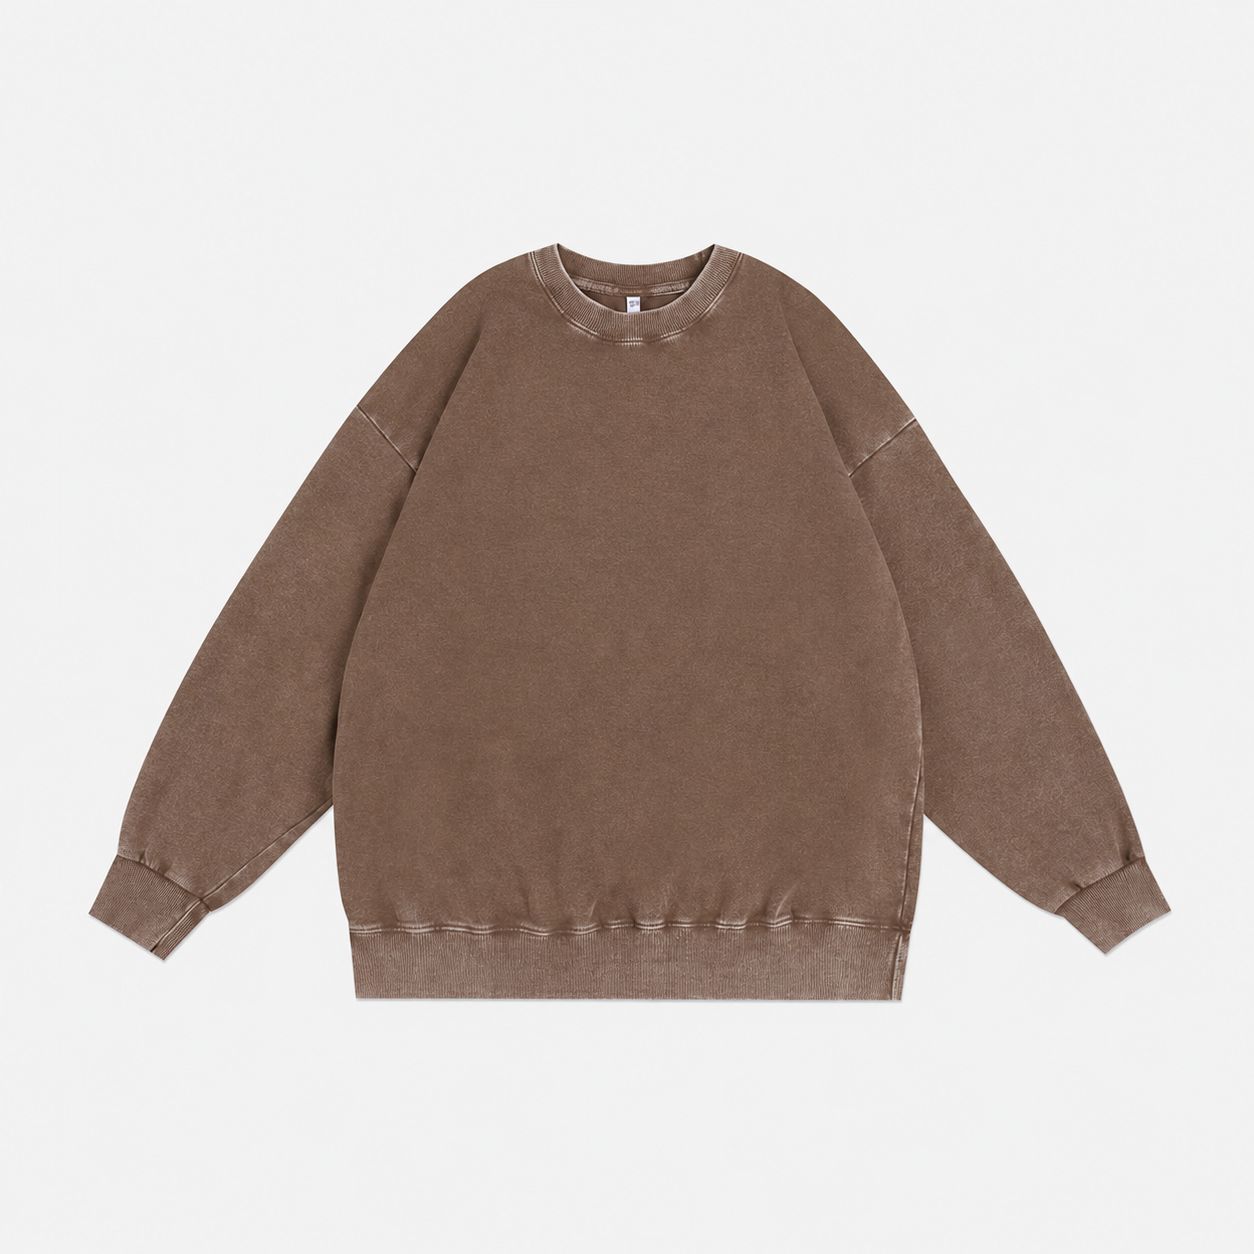
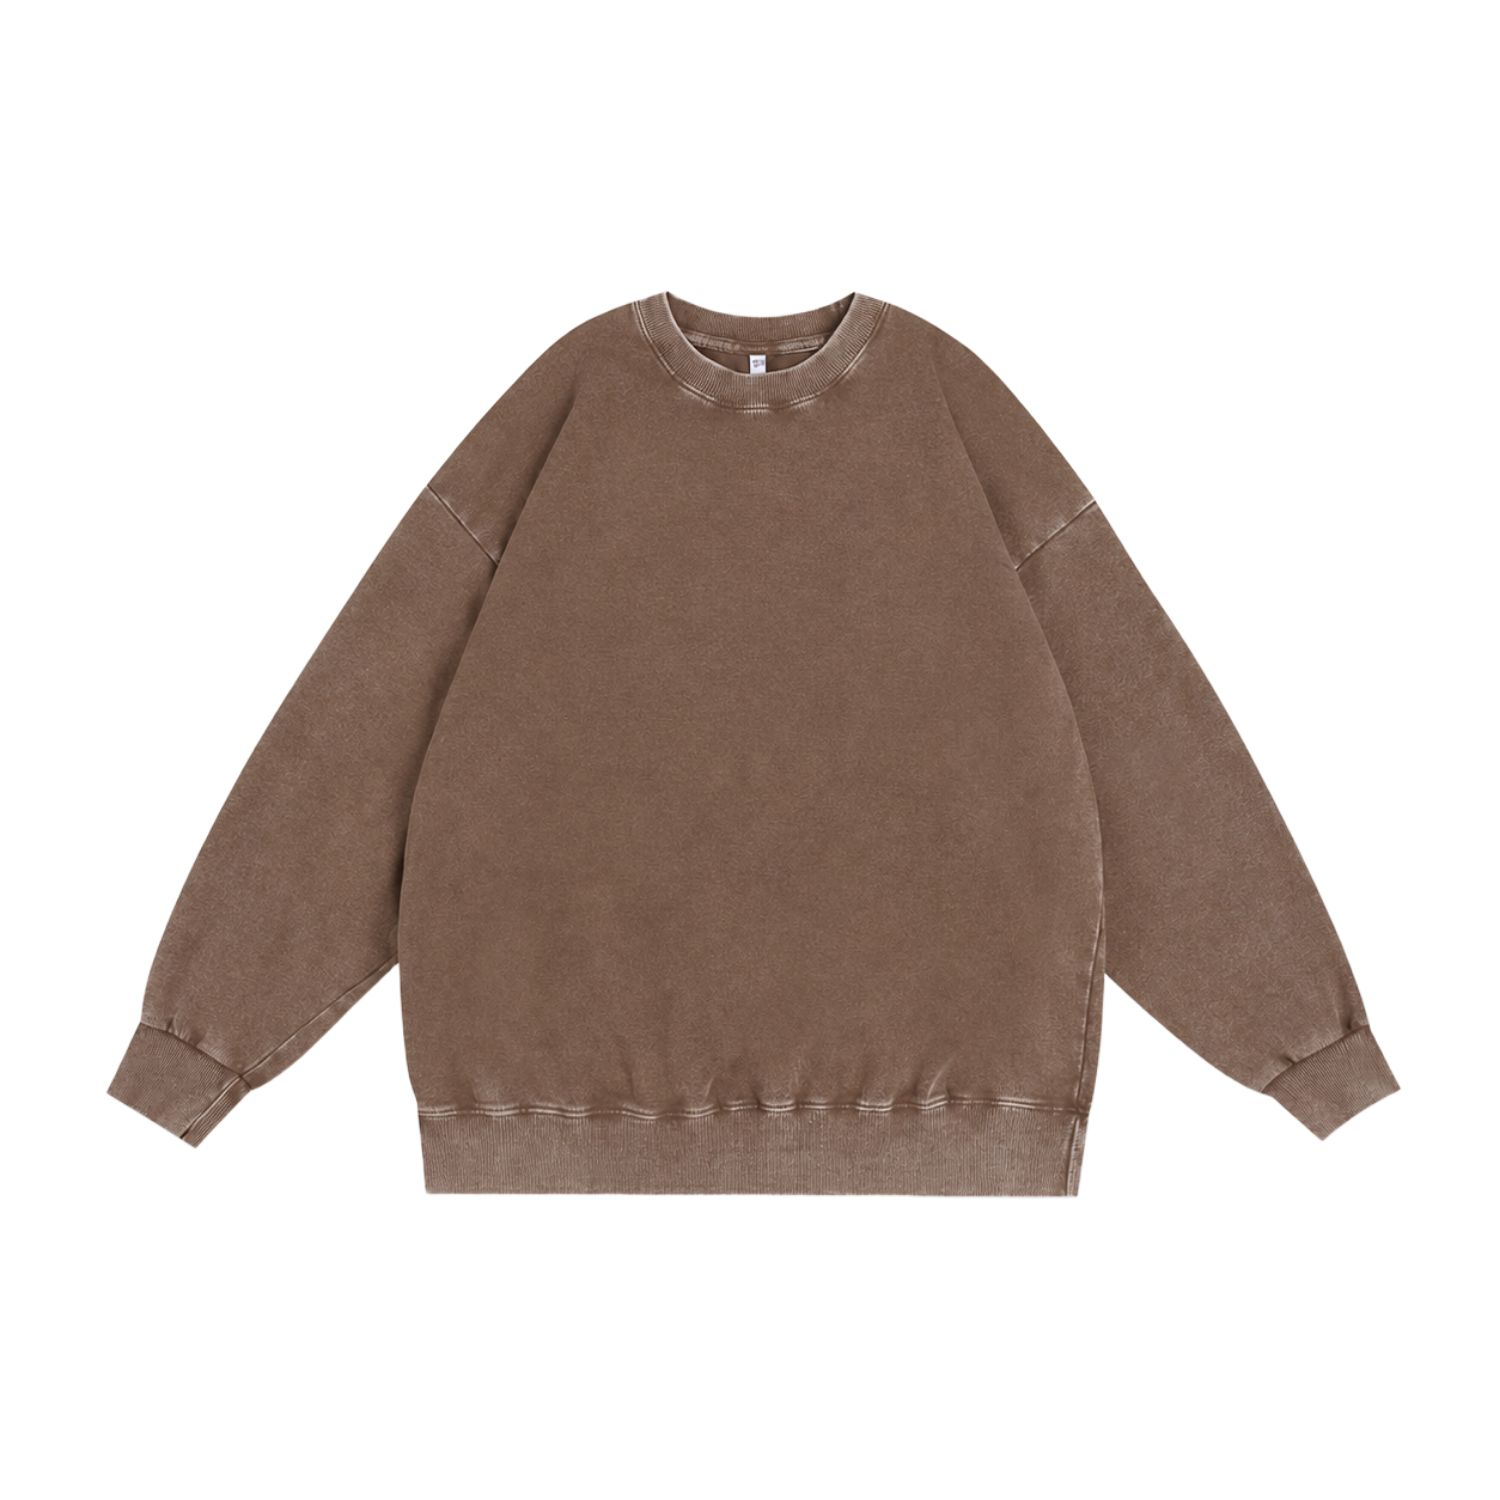
Adjust color image fit

diff --git a/index.html b/index.html
@@ -5,7 +5,7 @@
   <meta name="viewport" content="width=device-width, initial-scale=1.0">
   <title>T-WORLD KOREA WHOLESALE</title>
   <meta name="description" content="티월드코리아 프리미엄 티셔츠 도매 및 소매 총판 제품 카탈로그입니다. 반팔, 민소매, 긴팔, 맨투맨, 후드, 바지 라인업을 확인하세요.">
-  <link rel="stylesheet" href="css/style.css?v=20260515-inquiry-fields">
+  <link rel="stylesheet" href="css/style.css?v=20260515-color-image-fit">
 </head>
 <body data-page="home">
   <header class="site-header" data-header>
@@ -17,9 +17,9 @@
     <nav class="site-nav" data-nav>
       <a href="index.html">HOME</a>
       <a href="about.html">ABOUT</a>
-      <a href="products.html?v=20260515-inquiry-fields">PRODUCTS</a>
-      <a href="lookbook.html?v=20260515-inquiry-fields">LOOKBOOK</a>
-      <a href="contact.html?v=20260515-inquiry-fields">CONTACT</a>
+      <a href="products.html?v=20260515-color-image-fit">PRODUCTS</a>
+      <a href="lookbook.html?v=20260515-color-image-fit">LOOKBOOK</a>
+      <a href="contact.html?v=20260515-color-image-fit">CONTACT</a>
     </nav>
   </header>
 
@@ -33,8 +33,8 @@
       </div>
       <!-- <div class="hero-copy fade-up">
         <div class="button-row">
-          <a class="btn btn-dark" href="products.html?v=20260515-inquiry-fields">View Products</a>
-          <a class="btn btn-light" href="contact.html?v=20260515-inquiry-fields">Wholesale Inquiry</a>
+          <a class="btn btn-dark" href="products.html?v=20260515-color-image-fit">View Products</a>
+          <a class="btn btn-light" href="contact.html?v=20260515-color-image-fit">Wholesale Inquiry</a>
         </div>
       </div> -->
     </section>
@@ -45,7 +45,7 @@
         <h2>PRODUCT CATEGORIES</h2>
       </div>
       <div class="category-grid">
-        <a class="category-card image-card" href="products.html?category=Short%20Sleeve&v=20260515-inquiry-fields">
+        <a class="category-card image-card" href="products.html?category=Short%20Sleeve&v=20260515-color-image-fit">
           <div class="image-frame" data-label="Short Sleeve">
             <img src="images/products/01OA1/01OA1_image_01.jpg" alt="반팔 제품 대표 이미지">
           </div>
@@ -54,7 +54,7 @@
             <p>Short Sleeve 13 Styles</p>
           </div>
         </a>
-        <a class="category-card image-card" href="products.html?category=Sleeveless&v=20260515-inquiry-fields">
+        <a class="category-card image-card" href="products.html?category=Sleeveless&v=20260515-color-image-fit">
           <div class="image-frame" data-label="Sleeveless">
             <img src="images/products/08VS30/08VS30_image_01.jpg" alt="민소매 제품 대표 이미지">
           </div>
@@ -63,7 +63,7 @@
             <p>Sleeveless 3 Styles</p>
           </div>
         </a>
-        <a class="category-card image-card" href="products.html?category=Long%20Sleeve&v=20260515-inquiry-fields">
+        <a class="category-card image-card" href="products.html?category=Long%20Sleeve&v=20260515-color-image-fit">
           <div class="image-frame" data-label="Long Sleeve">
             <img src="images/products/06OLK/06OLK_image_02.jpg" alt="긴팔 제품 대표 이미지">
           </div>
@@ -72,7 +72,7 @@
             <p>Long Sleeve 3 Styles</p>
           </div>
         </a>
-        <a class="category-card image-card" href="products.html?category=Sweatshirt&v=20260515-inquiry-fields">
+        <a class="category-card image-card" href="products.html?category=Sweatshirt&v=20260515-color-image-fit">
           <div class="image-frame" data-label="Sweatshirt">
             <img src="images/products/OE2700/OE2700_image_01.png" alt="맨투맨 제품 대표 이미지">
           </div>
@@ -81,7 +81,7 @@
             <p>Sweatshirt 5 Styles</p>
           </div>
         </a>
-        <a class="category-card image-card" href="products.html?category=Hoodie&v=20260515-inquiry-fields">
+        <a class="category-card image-card" href="products.html?category=Hoodie&v=20260515-color-image-fit">
           <div class="image-frame" data-label="Hoodie">
             <img src="images/products/QXX5200/QXX5200_image_01.png" alt="후드 제품 대표 이미지">
           </div>
@@ -90,7 +90,7 @@
             <p>Hoodie 4 Styles</p>
           </div>
         </a>
-        <a class="category-card image-card" href="products.html?category=Pants&v=20260515-inquiry-fields">
+        <a class="category-card image-card" href="products.html?category=Pants&v=20260515-color-image-fit">
           <div class="image-frame" data-label="Pants">
             <img src="images/products/LK3401/LK3401_image_01.png" alt="바지 제품 대표 이미지">
           </div>
@@ -108,7 +108,7 @@
           <p class="eyebrow">FEATURED LINEUP</p>
           <h2>SELECTED PRODUCTS</h2>
         </div>
-        <a class="text-link" href="products.html?v=20260515-inquiry-fields">All Products</a>
+        <a class="text-link" href="products.html?v=20260515-color-image-fit">All Products</a>
       </div>
       <div class="product-grid" data-featured-products></div>
     </section>
@@ -179,7 +179,7 @@
           <p class="eyebrow">LOOKBOOK PREVIEW</p>
           <h2>MODEL FIT ARCHIVE</h2>
         </div>
-        <a class="text-link" href="lookbook.html?v=20260515-inquiry-fields">View Lookbook</a>
+        <a class="text-link" href="lookbook.html?v=20260515-color-image-fit">View Lookbook</a>
       </div>
       <div class="lookbook-strip">
         <div class="image-frame tall" data-label="Lookbook 01">
@@ -202,7 +202,7 @@
       <h2>대량 구매, 제품 카탈로그 문의가 필요하신가요?</h2>
       <p>안정적인 공급과 합리적인 가격으로 상담을 도와드립니다.</p>
       <div class="button-row center">
-        <a class="btn btn-dark" href="contact.html?v=20260515-inquiry-fields">Contact Us</a>
+        <a class="btn btn-dark" href="contact.html?v=20260515-color-image-fit">Contact Us</a>
         <a class="btn btn-light" href="https://open.kakao.com/o/sd2I4Sui" target="_blank" rel="noopener">카카오톡 문의하기</a>
       </div>
     </section>
@@ -214,12 +214,12 @@
       <p>기본 의류 도매 공급과 제품 카탈로그 문의를 위한 브랜드 사이트입니다.</p>
     </div>
     <div>
-      <a href="products.html?v=20260515-inquiry-fields">PRODUCTS</a>
-      <a href="contact.html?v=20260515-inquiry-fields">CONTACT</a>
+      <a href="products.html?v=20260515-color-image-fit">PRODUCTS</a>
+      <a href="contact.html?v=20260515-color-image-fit">CONTACT</a>
     </div>
   </footer>
 
-  <script src="data/products.js?v=20260515-inquiry-fields"></script>
-  <script src="js/main.js?v=20260515-inquiry-fields"></script>
+  <script src="data/products.js?v=20260515-color-image-fit"></script>
+  <script src="js/main.js?v=20260515-color-image-fit"></script>
 </body>
 </html>

diff --git a/product-detail.html b/product-detail.html
@@ -5,7 +5,7 @@
   <meta name="viewport" content="width=device-width, initial-scale=1.0">
   <title>PRODUCT DETAIL | T-WORLD KOREA</title>
   <meta name="description" content="제품별 이미지, 컬러, 소재, 중량, 사이즈표, 디테일 정보를 확인할 수 있는 상세 카탈로그 페이지입니다.">
-  <link rel="stylesheet" href="css/style.css?v=20260515-inquiry-fields">
+  <link rel="stylesheet" href="css/style.css?v=20260515-color-image-fit">
 </head>
 <body data-page="product-detail">
   <header class="site-header" data-header>
@@ -14,9 +14,9 @@
     <nav class="site-nav" data-nav>
       <a href="index.html">HOME</a>
       <a href="about.html">ABOUT</a>
-      <a href="products.html?v=20260515-inquiry-fields">PRODUCTS</a>
-      <a href="lookbook.html?v=20260515-inquiry-fields">LOOKBOOK</a>
-      <a href="contact.html?v=20260515-inquiry-fields">CONTACT</a>
+      <a href="products.html?v=20260515-color-image-fit">PRODUCTS</a>
+      <a href="lookbook.html?v=20260515-color-image-fit">LOOKBOOK</a>
+      <a href="contact.html?v=20260515-color-image-fit">CONTACT</a>
     </nav>
   </header>
 
@@ -26,10 +26,10 @@
 
   <footer class="site-footer">
     <div><strong>T-WORLD KOREA</strong><p>제품 상세 문의는 전화, 이메일, 카카오톡으로 가능합니다.</p></div>
-    <div><a href="products.html?v=20260515-inquiry-fields">PRODUCTS</a><a href="contact.html?v=20260515-inquiry-fields">CONTACT</a></div>
+    <div><a href="products.html?v=20260515-color-image-fit">PRODUCTS</a><a href="contact.html?v=20260515-color-image-fit">CONTACT</a></div>
   </footer>
 
-  <script src="data/products.js?v=20260515-inquiry-fields"></script>
-  <script src="js/main.js?v=20260515-inquiry-fields"></script>
+  <script src="data/products.js?v=20260515-color-image-fit"></script>
+  <script src="js/main.js?v=20260515-color-image-fit"></script>
 </body>
 </html>

diff --git a/products.html b/products.html
@@ -5,7 +5,7 @@
   <meta name="viewport" content="width=device-width, initial-scale=1.0">
   <title>PRODUCTS | T-WORLD KOREA</title>
   <meta name="description" content="반팔, 나시, 긴팔, 바지 제품 라인업을 확인할 수 있는 기본 의류 도매 카탈로그 페이지입니다.">
-  <link rel="stylesheet" href="css/style.css?v=20260515-inquiry-fields">
+  <link rel="stylesheet" href="css/style.css?v=20260515-color-image-fit">
 </head>
 <body data-page="products">
   <header class="site-header" data-header>
@@ -14,9 +14,9 @@
     <nav class="site-nav" data-nav>
       <a href="index.html">HOME</a>
       <a href="about.html">ABOUT</a>
-      <a href="products.html?v=20260515-inquiry-fields">PRODUCTS</a>
-      <a href="lookbook.html?v=20260515-inquiry-fields">LOOKBOOK</a>
-      <a href="contact.html?v=20260515-inquiry-fields">CONTACT</a>
+      <a href="products.html?v=20260515-color-image-fit">PRODUCTS</a>
+      <a href="lookbook.html?v=20260515-color-image-fit">LOOKBOOK</a>
+      <a href="contact.html?v=20260515-color-image-fit">CONTACT</a>
     </nav>
   </header>
 
@@ -59,10 +59,10 @@
 
   <footer class="site-footer">
     <div><strong>T-WORLD KOREA</strong><p>제품별 소재, 중량, 컬러 정보를 확인하세요.</p></div>
-    <div><a href="about.html">ABOUT</a><a href="contact.html?v=20260515-inquiry-fields">CONTACT</a></div>
+    <div><a href="about.html">ABOUT</a><a href="contact.html?v=20260515-color-image-fit">CONTACT</a></div>
   </footer>
 
-  <script src="data/products.js?v=20260515-inquiry-fields"></script>
-  <script src="js/main.js?v=20260515-inquiry-fields"></script>
+  <script src="data/products.js?v=20260515-color-image-fit"></script>
+  <script src="js/main.js?v=20260515-color-image-fit"></script>
 </body>
 </html>

diff --git a/lookbook.html b/lookbook.html
@@ -5,7 +5,7 @@
   <meta name="viewport" content="width=device-width, initial-scale=1.0">
   <title>LOOKBOOK | T-WORLD KOREA</title>
   <meta name="description" content="기본 의류의 착용 분위기를 확인할 수 있는 모델 착용컷 중심의 룩북 페이지입니다.">
-  <link rel="stylesheet" href="css/style.css?v=20260515-inquiry-fields">
+  <link rel="stylesheet" href="css/style.css?v=20260515-color-image-fit">
 </head>
 <body data-page="lookbook">
   <header class="site-header" data-header>
@@ -14,9 +14,9 @@
     <nav class="site-nav" data-nav>
       <a href="index.html">HOME</a>
       <a href="about.html">ABOUT</a>
-      <a href="products.html?v=20260515-inquiry-fields">PRODUCTS</a>
-      <a href="lookbook.html?v=20260515-inquiry-fields">LOOKBOOK</a>
-      <a href="contact.html?v=20260515-inquiry-fields">CONTACT</a>
+      <a href="products.html?v=20260515-color-image-fit">PRODUCTS</a>
+      <a href="lookbook.html?v=20260515-color-image-fit">LOOKBOOK</a>
+      <a href="contact.html?v=20260515-color-image-fit">CONTACT</a>
     </nav>
   </header>
 
@@ -63,9 +63,9 @@
 
   <footer class="site-footer">
     <div><strong>T-WORLD KOREA</strong><p>모델 착용컷과 제품 실루엣 아카이브</p></div>
-    <div><a href="products.html?v=20260515-inquiry-fields">PRODUCTS</a><a href="contact.html?v=20260515-inquiry-fields">CONTACT</a></div>
+    <div><a href="products.html?v=20260515-color-image-fit">PRODUCTS</a><a href="contact.html?v=20260515-color-image-fit">CONTACT</a></div>
   </footer>
 
-  <script src="js/main.js?v=20260515-inquiry-fields"></script>
+  <script src="js/main.js?v=20260515-color-image-fit"></script>
 </body>
 </html>

diff --git a/about.html b/about.html
@@ -5,7 +5,7 @@
   <meta name="viewport" content="width=device-width, initial-scale=1.0">
   <title>ABOUT | T-WORLD KOREA</title>
   <meta name="description" content="티월드코리아의 중국 본사 공장, 한국 지사 창고와 쇼룸을 소개하는 회사 소개 페이지입니다.">
-  <link rel="stylesheet" href="css/style.css?v=20260515-inquiry-fields">
+  <link rel="stylesheet" href="css/style.css?v=20260515-color-image-fit">
 </head>
 <body data-page="about">
   <header class="site-header" data-header>
@@ -14,9 +14,9 @@
     <nav class="site-nav" data-nav>
       <a href="index.html">HOME</a>
       <a href="about.html">ABOUT</a>
-      <a href="products.html?v=20260515-inquiry-fields">PRODUCTS</a>
-      <a href="lookbook.html?v=20260515-inquiry-fields">LOOKBOOK</a>
-      <a href="contact.html?v=20260515-inquiry-fields">CONTACT</a>
+      <a href="products.html?v=20260515-color-image-fit">PRODUCTS</a>
+      <a href="lookbook.html?v=20260515-color-image-fit">LOOKBOOK</a>
+      <a href="contact.html?v=20260515-color-image-fit">CONTACT</a>
     </nav>
   </header>
 
@@ -81,9 +81,9 @@
 
   <footer class="site-footer">
     <div><strong>T-WORLD KOREA</strong><p>기본 의류 도매 공급 회사 소개</p></div>
-    <div><a href="products.html?v=20260515-inquiry-fields">PRODUCTS</a><a href="contact.html?v=20260515-inquiry-fields">CONTACT</a></div>
+    <div><a href="products.html?v=20260515-color-image-fit">PRODUCTS</a><a href="contact.html?v=20260515-color-image-fit">CONTACT</a></div>
   </footer>
 
-  <script src="js/main.js?v=20260515-inquiry-fields"></script>
+  <script src="js/main.js?v=20260515-color-image-fit"></script>
 </body>
 </html>

diff --git a/js/main.js b/js/main.js
@@ -98,7 +98,7 @@
 
   function productCard(product) {
     const label = categoryLabel(product.category);
-    const detailHref = `product-detail.html?id=${encodeURIComponent(product.code)}&v=20260515-inquiry-fields`;
+    const detailHref = `product-detail.html?id=${encodeURIComponent(product.code)}&v=20260515-color-image-fit`;
     return `
       <a class="product-card image-card" href="${detailHref}">
         <span class="image-frame" data-label="${product.code} Front Image">
@@ -243,7 +243,7 @@
     mount.classList.add("is-visible");
 
     if (!product) {
-      mount.innerHTML = `<div class="page-hero"><h1>PRODUCT NOT FOUND</h1><p>제품 데이터를 찾을 수 없습니다.</p><a class="btn btn-dark" href="products.html?v=20260515-inquiry-fields">Back to Products</a></div>`;
+      mount.innerHTML = `<div class="page-hero"><h1>PRODUCT NOT FOUND</h1><p>제품 데이터를 찾을 수 없습니다.</p><a class="btn btn-dark" href="products.html?v=20260515-color-image-fit">Back to Products</a></div>`;
       return;
     }
     document.title = `${product.name} | T-WORLD KOREA`;
@@ -287,7 +287,7 @@
           </dl>
           <p class="filter-label">COLOR</p>
           <div class="swatch-row">${colorSwatches(product)}</div>
-          <a class="btn btn-dark full" href="contact.html?v=20260515-inquiry-fields&product=${encodeURIComponent(product.name)}">Wholesale Inquiry</a>
+          <a class="btn btn-dark full" href="contact.html?v=20260515-color-image-fit&product=${encodeURIComponent(product.name)}">Wholesale Inquiry</a>
         </aside>
       </div>
 

diff --git a/contact.html b/contact.html
@@ -5,7 +5,7 @@
   <meta name="viewport" content="width=device-width, initial-scale=1.0">
   <title>CONTACT | T-WORLD KOREA</title>
   <meta name="description" content="티월드코리아 제품 카탈로그, 도매 상담, 납품 관련 연락처를 확인할 수 있는 문의 페이지입니다.">
-  <link rel="stylesheet" href="css/style.css?v=20260515-inquiry-fields">
+  <link rel="stylesheet" href="css/style.css?v=20260515-color-image-fit">
 </head>
 <body data-page="contact">
   <header class="site-header" data-header>
@@ -112,6 +112,6 @@
     <div><a href="products.html">PRODUCTS</a><a href="lookbook.html">LOOKBOOK</a></div>
   </footer>
 
-  <script src="js/main.js?v=20260515-inquiry-fields"></script>
+  <script src="js/main.js?v=20260515-color-image-fit"></script>
 </body>
 </html>

diff --git a/css/style.css b/css/style.css
@@ -763,6 +763,17 @@ p {
 
 .color-image .image-frame {
   aspect-ratio: 4 / 5;
+  background: var(--white);
+}
+
+.color-image .image-frame img {
+  object-fit: contain;
+  object-position: center;
+  background: var(--white);
+}
+
+.color-image:hover img {
+  transform: none;
 }
 
 .size-table-wrap {
